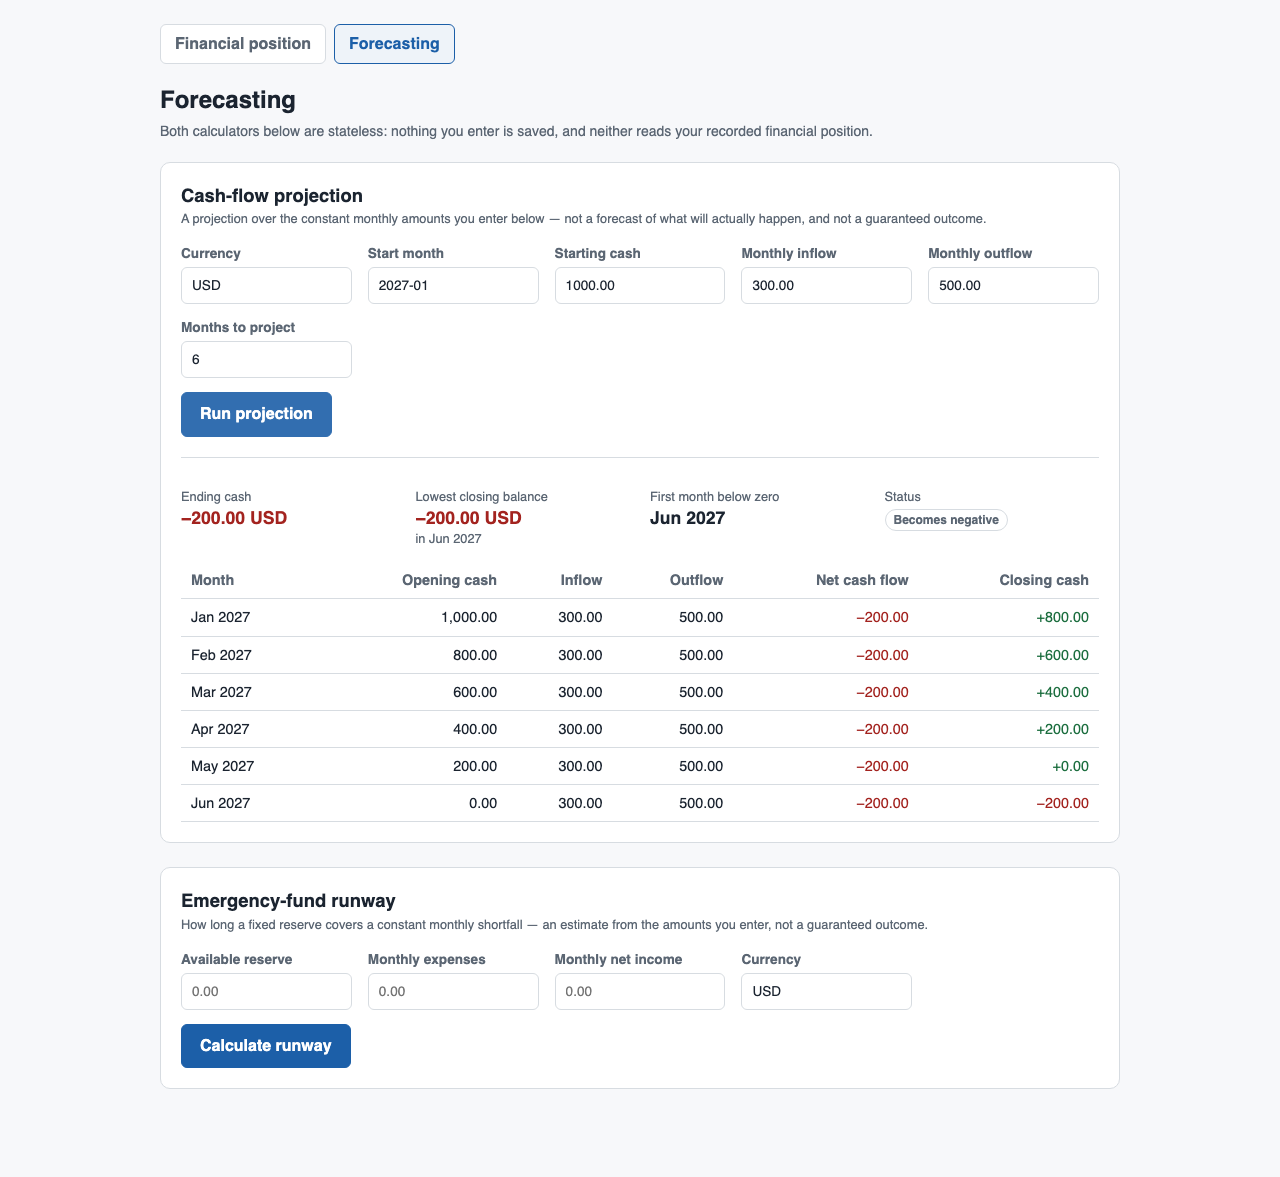
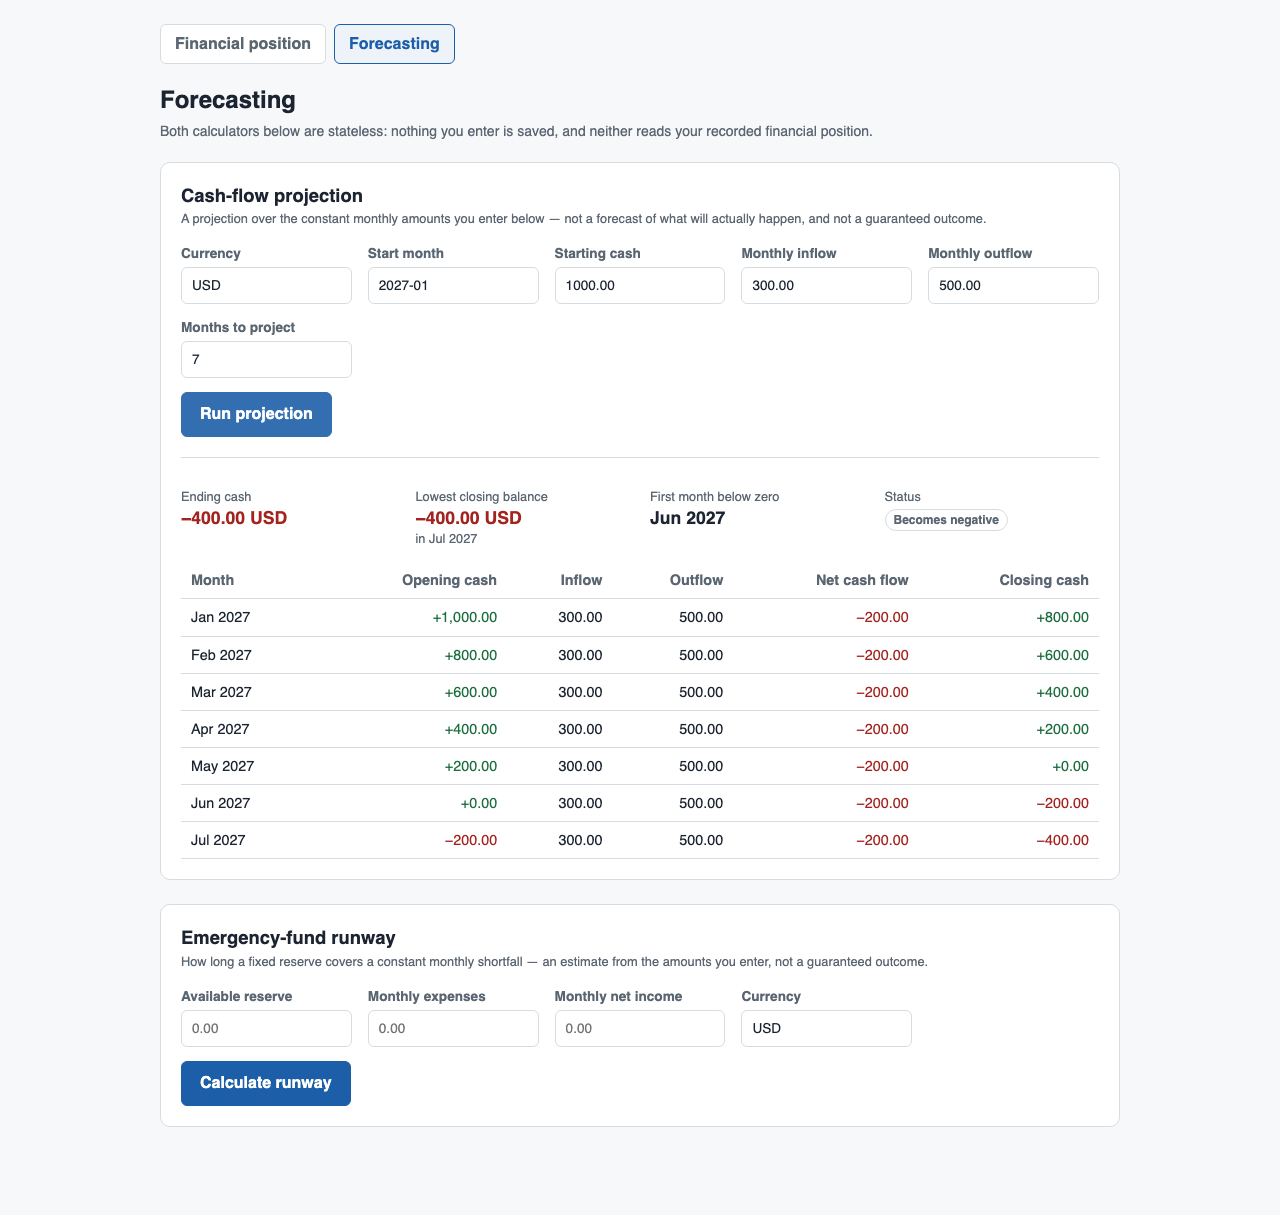
WAP-19: Fix sign-stripped opening cash and narrow-layout month label
Addresses review findings on PR #51:

- BLOCKING-1: render row.openingCash through SignedAmount instead of the
  magnitude-only formatter. Opening cash carries forward the prior month's
  closing balance and can itself go negative once a projection crosses
  BECOMES_NEGATIVE, but was rendered with its sign stripped.
- RECOMMENDED-1: drop data-label="Month" from the row-title cell so it no
  longer runs into its value on the narrow stacked-table layout, matching
  the existing AssetTable/LiabilityTable convention.
- OPTIONAL-1: format runwayMonths through the shared amount formatter for a
  consistent two-decimal convention.

Added a regression test asserting a row past firstNegativeMonth renders its
negative opening cash correctly, and regenerated the evidence screenshots
that had captured the bug.

diff --git a/frontend/src/components/ForecastingPage.test.tsx b/frontend/src/components/ForecastingPage.test.tsx
@@ -17,14 +17,19 @@ const projectionResponse: CashFlowProjectionResponse = {
   startingCash: 1000,
   monthlyInflow: 300,
   monthlyOutflow: 500,
-  months: 6,
+  months: 7,
   rows: [
     { month: '2027-01', openingCash: 1000, inflow: 300, outflow: 500, netCashFlow: -200, closingCash: 800 },
     { month: '2027-06', openingCash: 0, inflow: 300, outflow: 500, netCashFlow: -200, closingCash: -200 },
+    // A row past firstNegativeMonth, where openingCash itself is negative
+    // (opening carries forward the prior month's negative closing balance)
+    // — regression coverage for the sign-stripped "Opening cash" bug found
+    // in review (BLOCKING-1).
+    { month: '2027-07', openingCash: -200, inflow: 300, outflow: 500, netCashFlow: -200, closingCash: -400 },
   ],
-  endingCash: -200,
-  lowestClosingBalance: -200,
-  lowestClosingBalanceMonth: '2027-06',
+  endingCash: -400,
+  lowestClosingBalance: -400,
+  lowestClosingBalanceMonth: '2027-07',
   firstNegativeMonth: '2027-06',
   status: 'BECOMES_NEGATIVE',
 };
@@ -79,7 +84,7 @@ describe('cash-flow projection', () => {
     await userEvent.type(screen.getByLabelText('Monthly inflow'), '300.00');
     await userEvent.type(screen.getByLabelText('Monthly outflow'), '500.00');
     await userEvent.clear(screen.getByLabelText('Months to project'));
-    await userEvent.type(screen.getByLabelText('Months to project'), '6');
+    await userEvent.type(screen.getByLabelText('Months to project'), '7');
 
     await userEvent.click(screen.getByRole('button', { name: 'Run projection' }));
 
@@ -95,15 +100,38 @@ describe('cash-flow projection', () => {
           startingCash: '1000.00',
           monthlyInflow: '300.00',
           monthlyOutflow: '500.00',
-          months: 6,
+          months: 7,
         }),
       })
     );
 
     // Summary fields and a row's month.
     expect(screen.getByText('Jan 2027')).toBeInTheDocument();
-    expect(screen.getAllByText(/200\.00 USD/).length).toBeGreaterThan(0);
+    expect(screen.getAllByText(/400\.00 USD/).length).toBeGreaterThan(0);
     expect(screen.getAllByText('Jun 2027').length).toBeGreaterThan(0);
+  });
+
+  it('renders a negative opening cash with its sign preserved, on a row past the first negative month', async () => {
+    // Regression coverage for BLOCKING-1 from review: openingCash carries
+    // forward the prior month's closing balance and can itself go negative,
+    // but was rendered through the sign-stripping magnitude formatter.
+    vi.stubGlobal('fetch', vi.fn().mockResolvedValue(jsonResponse(projectionResponse)));
+    await goToForecasting();
+
+    await userEvent.type(screen.getByLabelText('Start month'), '2027-01');
+    await userEvent.type(screen.getByLabelText('Starting cash'), '1000.00');
+    await userEvent.type(screen.getByLabelText('Monthly inflow'), '300.00');
+    await userEvent.type(screen.getByLabelText('Monthly outflow'), '500.00');
+    await userEvent.clear(screen.getByLabelText('Months to project'));
+    await userEvent.type(screen.getByLabelText('Months to project'), '7');
+    await userEvent.click(screen.getByRole('button', { name: 'Run projection' }));
+
+    const julyRow = (await screen.findByText('Jul 2027')).closest('tr');
+    expect(julyRow).not.toBeNull();
+    const openingCashCell = julyRow!.querySelector('td[data-label="Opening cash"]');
+    expect(openingCashCell).toHaveTextContent('200.00');
+    expect(openingCashCell!.querySelector('.negative')).not.toBeNull();
+    expect(openingCashCell!.querySelector('.positive')).toBeNull();
   });
 
   it('surfaces an API validation error instead of failing silently', async () => {
@@ -146,7 +174,7 @@ describe('emergency-fund runway', () => {
     await userEvent.click(screen.getByRole('button', { name: 'Calculate runway' }));
 
     expect(await screen.findByText(/finite runway/i)).toBeInTheDocument();
-    expect(screen.getByText('5 months')).toBeInTheDocument();
+    expect(screen.getByText('5.00 months')).toBeInTheDocument();
     expect(screen.getByText(runwayResponse.modelNote)).toBeInTheDocument();
 
     expect(fetchMock).toHaveBeenCalledWith(

diff --git a/frontend/src/components/CashFlowProjectionSection.tsx b/frontend/src/components/CashFlowProjectionSection.tsx
@@ -215,11 +215,9 @@ function CashFlowProjectionResults({ response }: { response: CashFlowProjectionR
           <tbody>
             {response.rows.map((row) => (
               <tr key={row.month}>
-                <td className="record-title" data-label="Month">
-                  {formatYearMonth(row.month)}
-                </td>
+                <td className="record-title">{formatYearMonth(row.month)}</td>
                 <td className="amount" data-label="Opening cash">
-                  {formatAmountMagnitude(row.openingCash)}
+                  <SignedAmount value={row.openingCash} />
                 </td>
                 <td className="amount" data-label="Inflow">
                   {formatAmountMagnitude(row.inflow)}

diff --git a/frontend/src/components/EmergencyFundRunwaySection.tsx b/frontend/src/components/EmergencyFundRunwaySection.tsx
@@ -132,7 +132,9 @@ function EmergencyFundRunwayResults({ response }: { response: EmergencyFundRunwa
         </div>
         <div className="summary-item">
           Runway
-          <strong>{response.runwayMonths === null ? 'Not applicable' : `${response.runwayMonths} months`}</strong>
+          <strong>
+            {response.runwayMonths === null ? 'Not applicable' : `${formatAmountMagnitude(response.runwayMonths)} months`}
+          </strong>
         </div>
         <div className="summary-item">
           Full months covered
